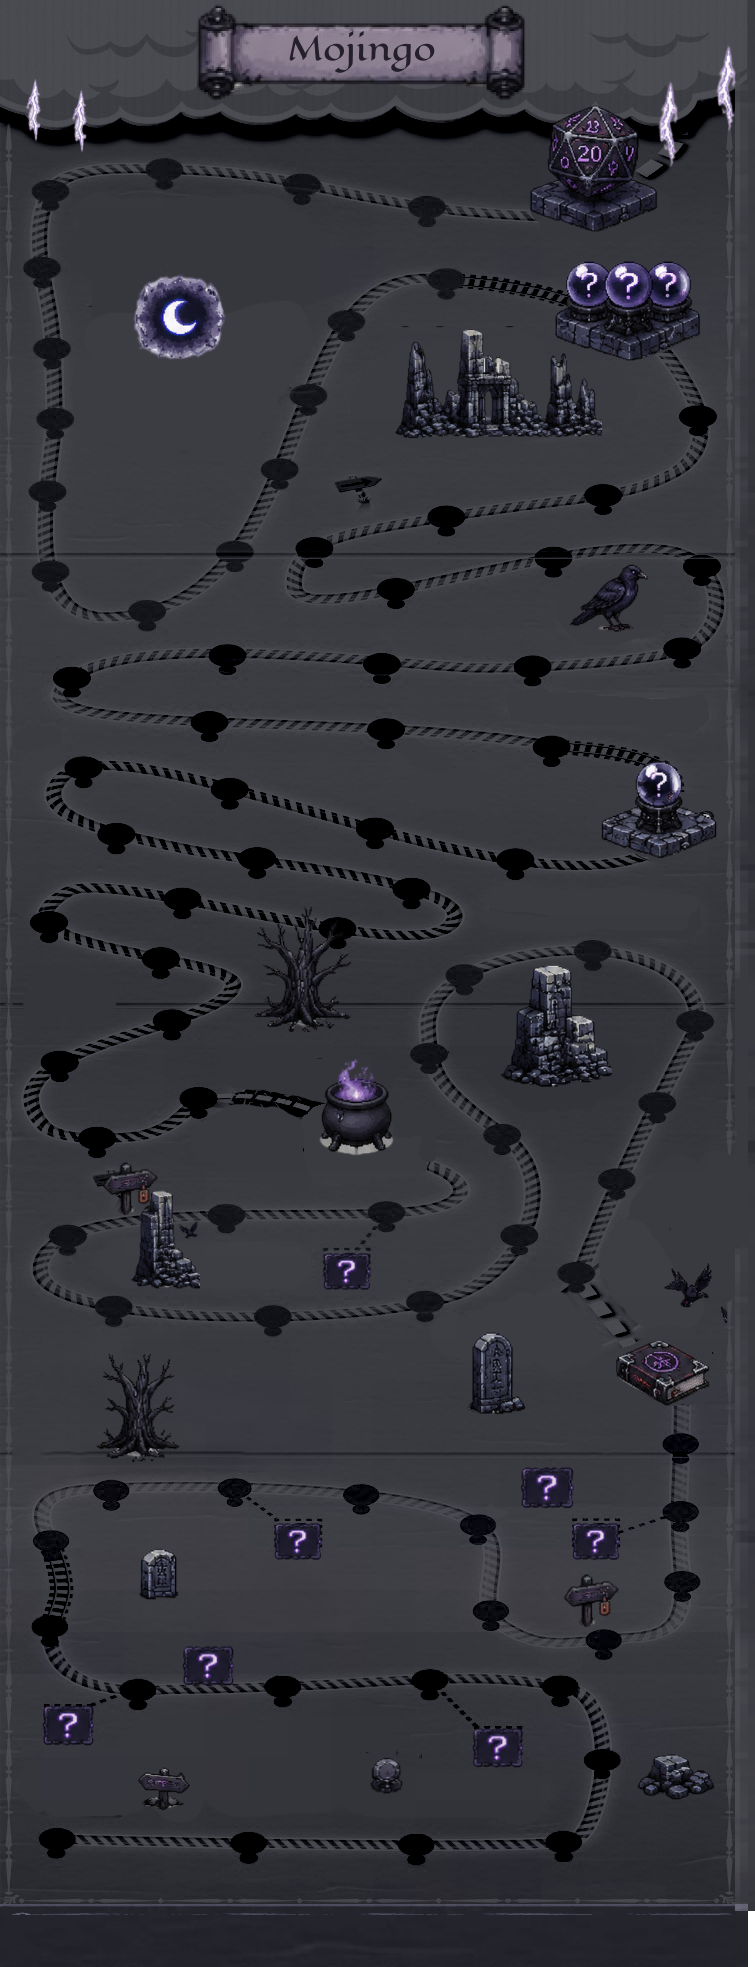
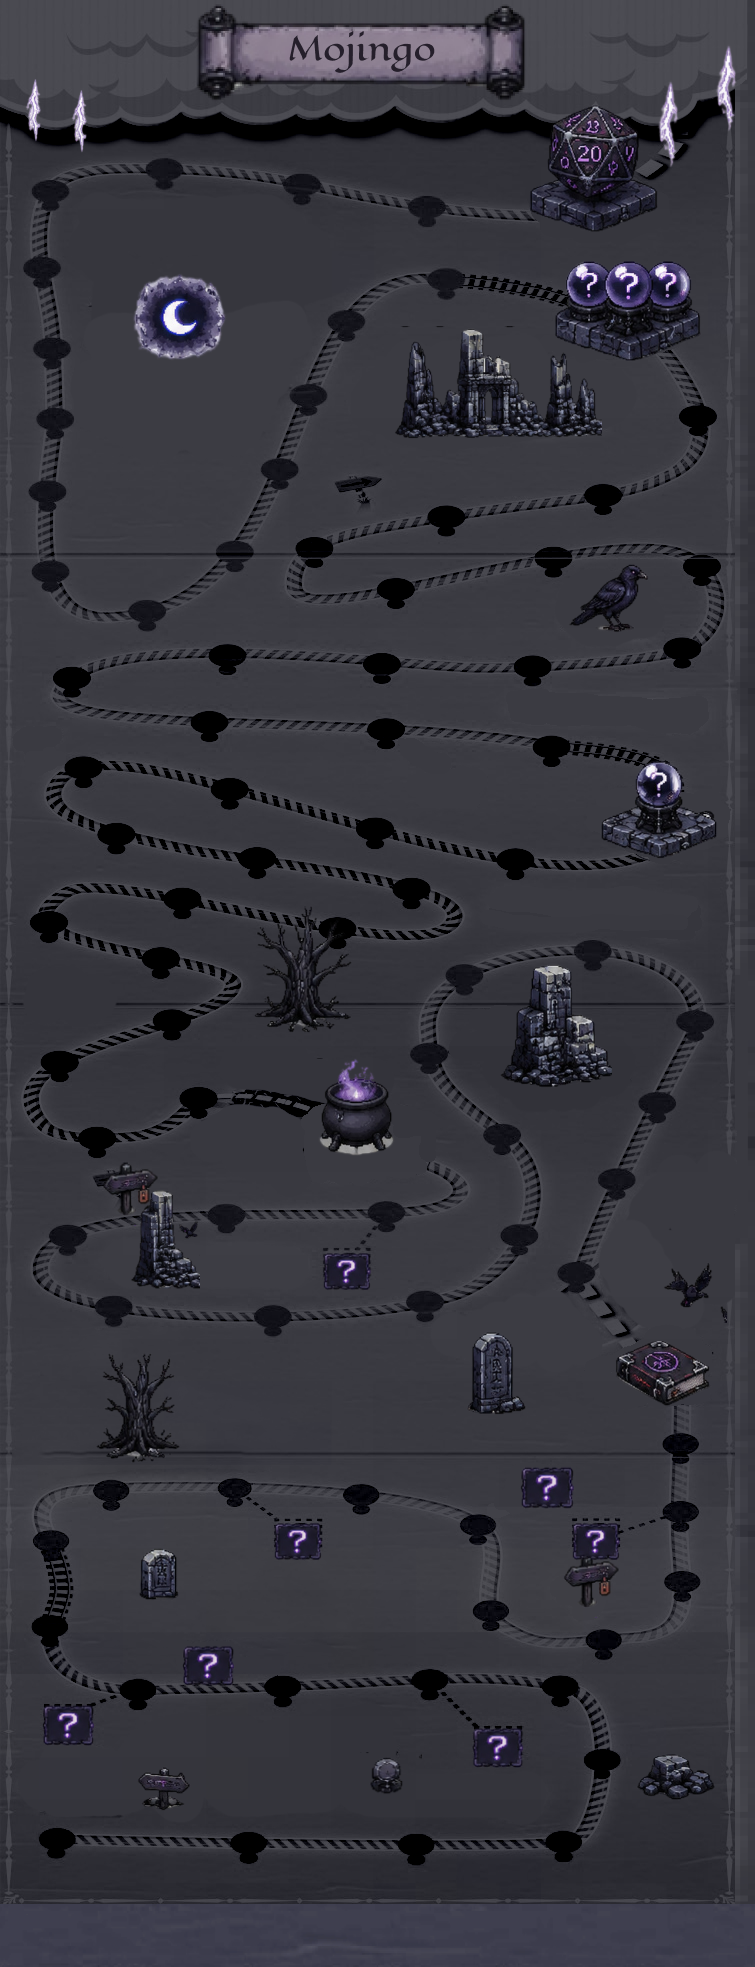
fixed misalignment on web

Changed region(s): [[0.0, 0.9614, 1.0, 1.0], [0.7616, 0.7753, 0.8225, 0.8373]]

diff --git a/lib/features/map/widgets/level_node.dart b/lib/features/map/widgets/level_node.dart
@@ -11,19 +11,35 @@ class LevelNode extends StatelessWidget {
 
   @override
   Widget build(BuildContext context) {
+    final isLargeScreen = MediaQuery.sizeOf(context).width > 600;
+
+    final double nodeSize = isLargeScreen ? 85.0 : 45.0;
+
+    final double fontSize = isLargeScreen ? 28.0 : 16.0;
 
     return InkWell(
       onTap: () => _showLevelDialog(context),
-      child: Stack(
-        alignment: Alignment.center,
-        children: [
-          Image.asset(
-            "assets/images/map/level.png",
-            fit: BoxFit.fitWidth,
-            width: 45,
-          ),
-          Text("$level", style: Theme.of(context).textTheme.titleMedium),
-        ],
+      child: SizedBox(
+        width: 100,
+        height: 100,
+        child: Stack(
+          alignment: Alignment.center,
+          children: [
+            Image.asset(
+              "assets/images/map/level.png",
+              fit: BoxFit.contain,
+              width: nodeSize,
+              height: nodeSize,
+            ),
+            Text(
+              "$level",
+              style: Theme.of(context).textTheme.titleMedium?.copyWith(
+                fontSize: fontSize,
+                fontWeight: FontWeight.bold,
+              ),
+            ),
+          ],
+        ),
       ),
     );
   }

diff --git a/lib/features/map/screen.dart b/lib/features/map/screen.dart
@@ -15,16 +15,19 @@ class _LevelsMapScreenState extends State<LevelsMapScreen> {
 
   @override
   void initState() {
-    super.initState(); 
-    
+    super.initState();
+
     _points = List.generate(
-      1,
+      83,
       (index) => PointModel(100, LevelNode(level: index + 1)),
     );
   }
 
   @override
   Widget build(BuildContext context) {
+    final isLargeScreen = MediaQuery.sizeOf(context).width > 600;
+    final double nudgeX = isLargeScreen ? -15.0 : 0.0;
+
     return Scaffold(
       body: GameLevelsScrollingMap.scrollable(
         imageUrl: "assets/images/map/map_visual.png",
@@ -32,8 +35,8 @@ class _LevelsMapScreenState extends State<LevelsMapScreen> {
         imageHeight: 1967,
         direction: Axis.vertical,
         reverseScrolling: true,
-        pointsPositionDeltaX: 25,
-        pointsPositionDeltaY: 25,
+        pointsPositionDeltaX: nudgeX,
+        pointsPositionDeltaY: 0,
         svgUrl: 'assets/images/map/map_coordinates.svg',
         points: _points,
       ),